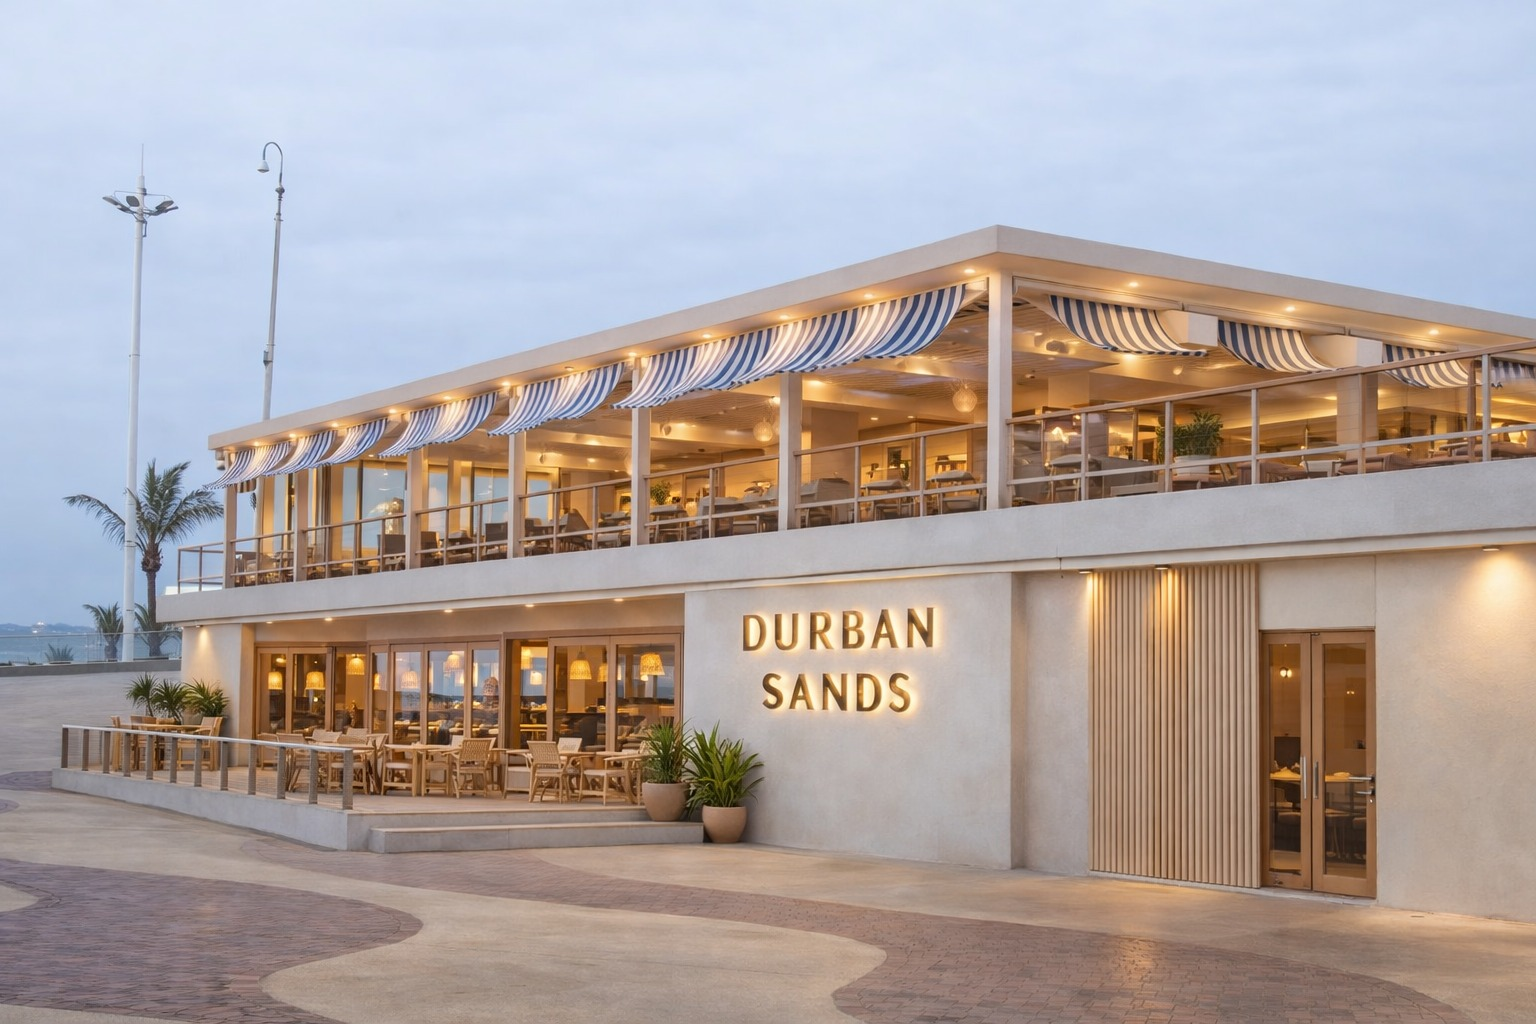
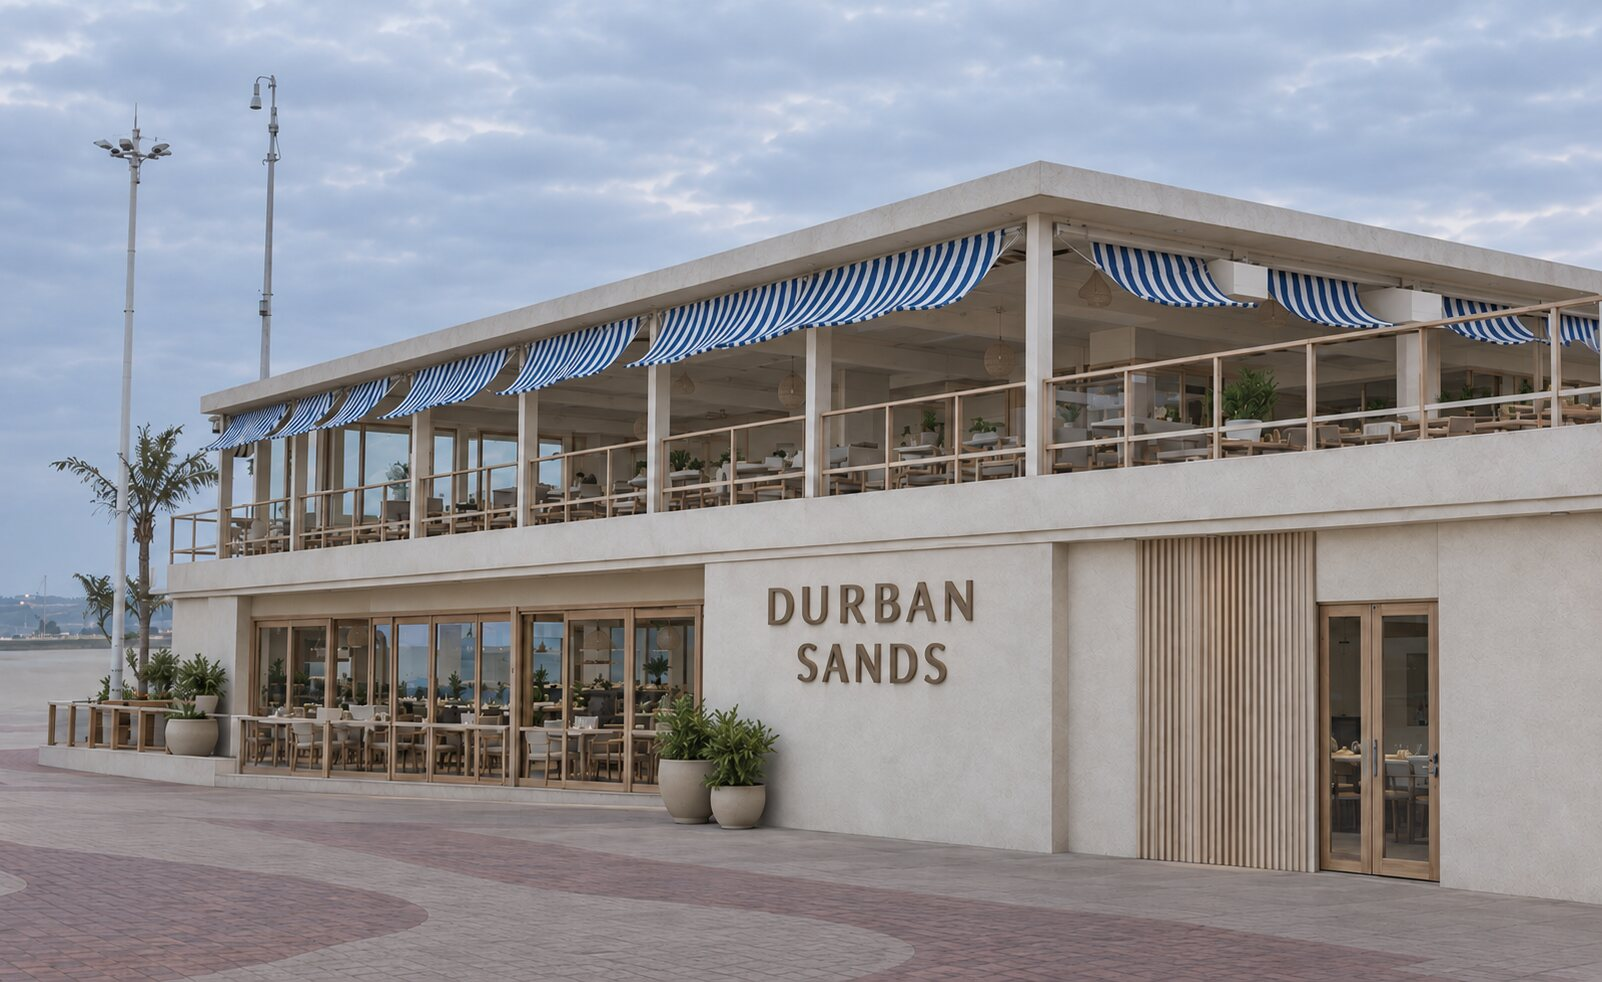
Update Projects images and add Makhaye and Shezi

diff --git a/gallery.js b/gallery.js
@@ -5,44 +5,44 @@
 // name new photos like that so it's obvious which project/order they belong to.
 const PROJECTS = [
   {
-    id: 'arc-01',
+    id: 'arc-res2601',
     category: 'arc',
-    code: 'ARC / 01',
-    title: 'Project title',
-    meta: 'Residential - Coming soon',
-    images: ['images/arc-01-modern-residence.jpg']
+    code: 'ARC / RES2601',
+    title: 'Residence Malevu',
+    meta: 'Rural, KwaZulu-Natal',
+    images: ['images/arc-res2601-Residence-Malevu.jpg']
   },
   {
-    id: 'urb-02',
-    category: 'urb',
-    code: 'URB / 02',
-    title: 'Project title',
-    meta: 'Urban / Public - Coming soon',
-    images: ['images/urb-02-discovery-church.jpg']
+    id: 'arc-res2602',
+    category: 'arc',
+    code: 'ARC / RES2602',
+    title: 'Residence Dladla',
+    meta: 'Pietermaritzburg, KwaZulu-Natal',
+    images: ['images/arc-res2602-Residence-Dladla.jpg']
   },
   {
-    id: 'evt-03',
-    category: 'evt',
-    code: 'EVT / 03',
-    title: 'Project title',
-    meta: 'Event Space - Coming soon',
-    images: ['images/evt-03-durban-sands.jpg']
+    id: 'arc-com2603',
+    category: 'arc',
+    code: 'ARC / COM2603',
+    title: 'Durban Sands Restaurant',
+    meta: 'Durban, KwaZulu-Natal',
+    images: ['images/arc-com2603-durban-sands.jpg']
   },
   {
-    id: 'dir-04',
-    category: 'dir',
-    code: 'DIR / 04',
-    title: 'New work coming soon',
-    meta: 'Creative Direction',
-    images: []
+    id: 'arc-res2604',
+    category: 'arc',
+    code: 'ARC / RES2604',
+    title: 'Residence Makhaye',
+    meta: 'Ballito, KwaZulu-Natal',
+    images: ['images/arc-res2604-Residence-Makhaye.jpg']
   },
   {
-    id: 'obj-05',
-    category: 'obj',
-    code: 'OBJ / 05',
-    title: 'New work coming soon',
-    meta: 'Furniture & Objects',
-    images: []
+    id: 'arc-res2605',
+    category: 'arc',
+    code: 'ARC / RES2605',
+    title: 'Residence Shezi',
+    meta: 'Kloof, KwaZulu-Natal',
+    images: ['images/arc-res2605-Residence-Shezi.jpg']
   }
 ];
 
